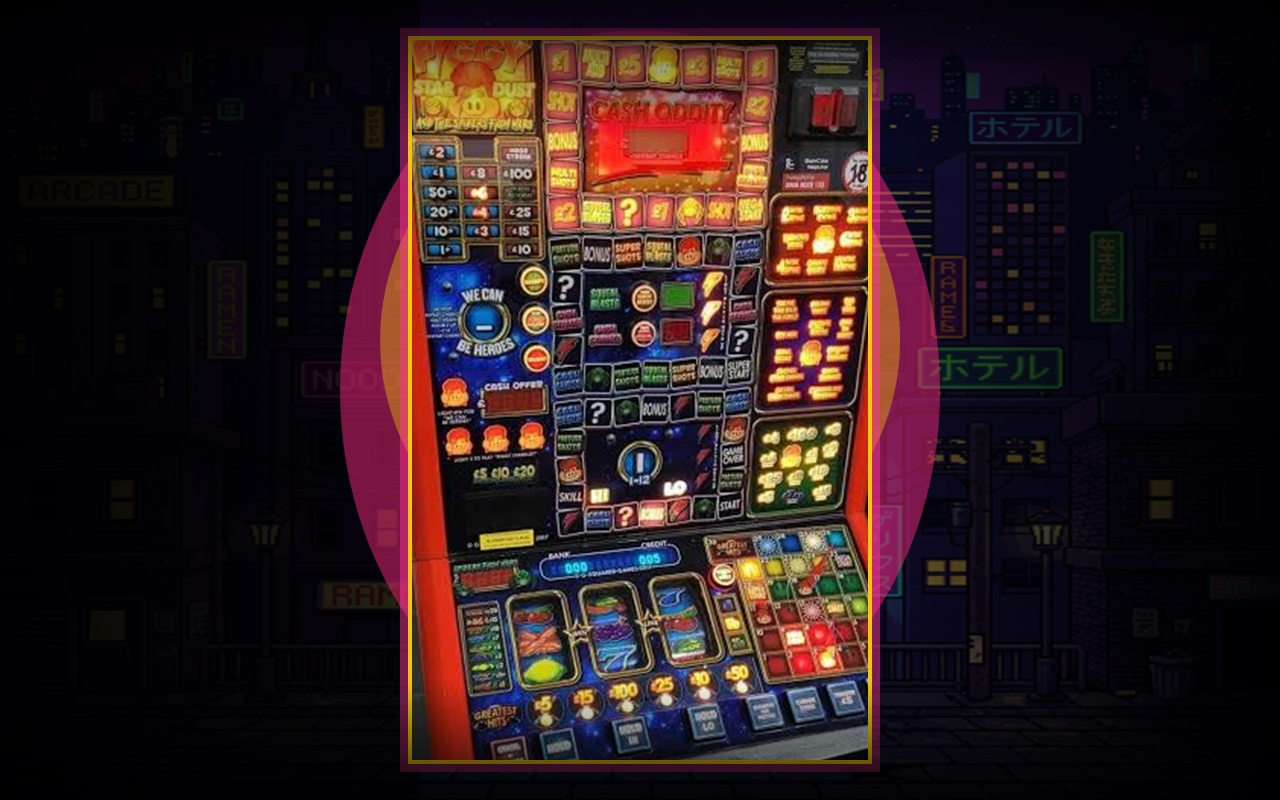
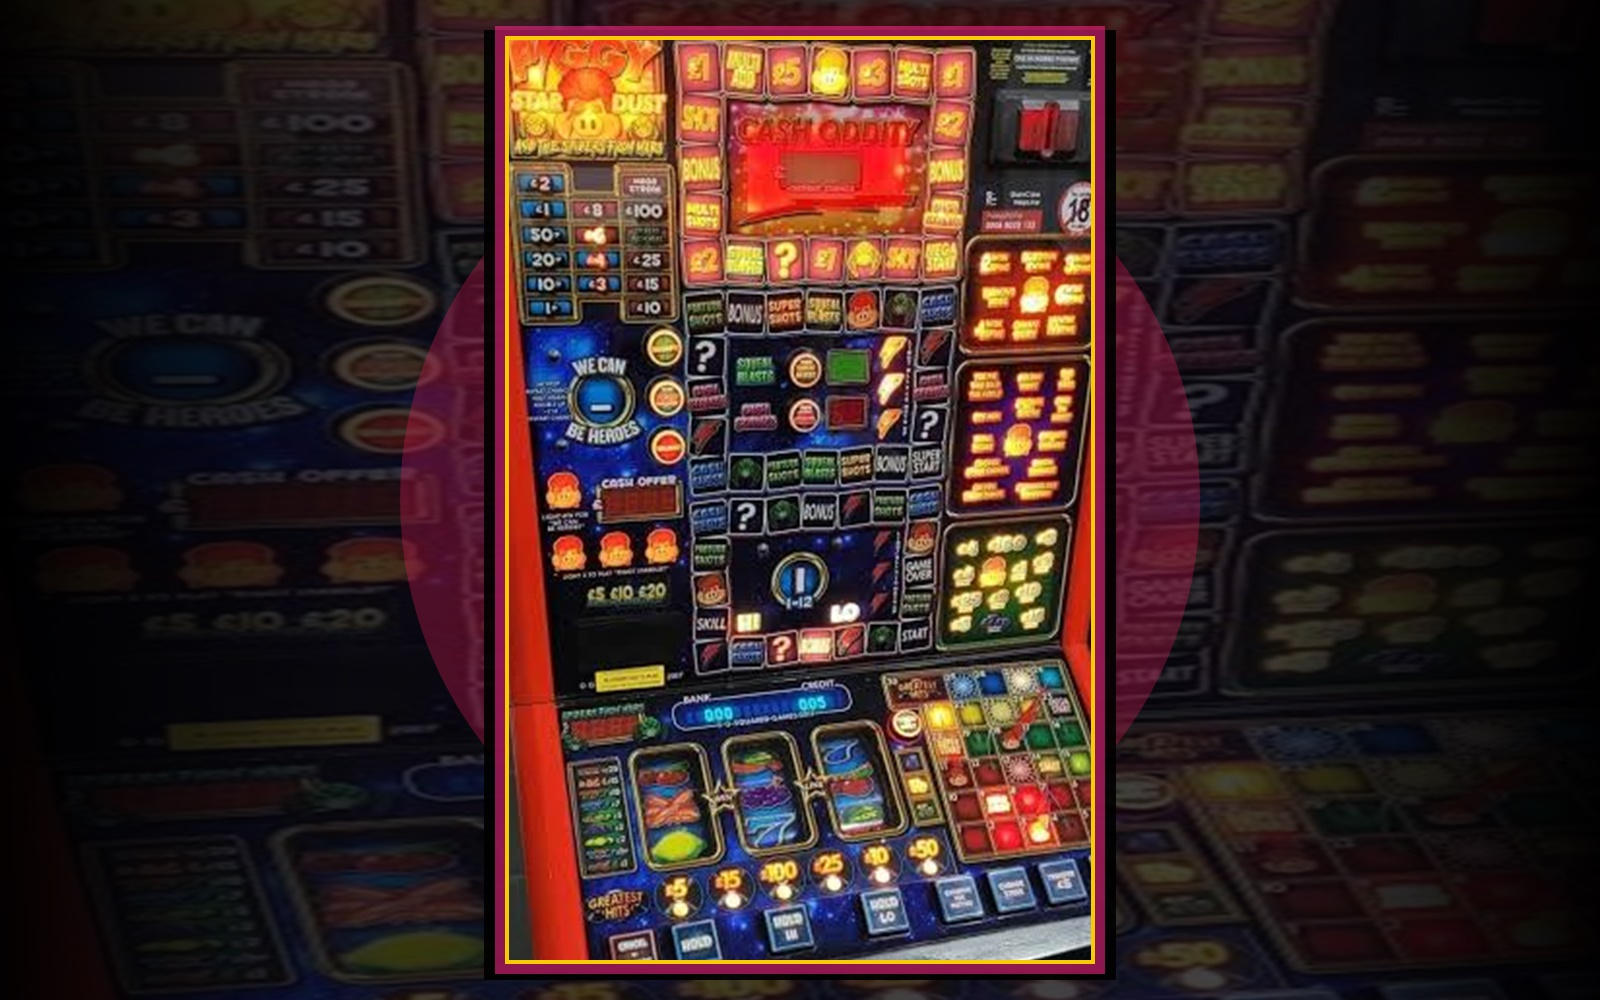
Asset: Deploy Pub Fruity v2 card image with ambient arcade blur and cache-busting URL

diff --git a/src/components/vegas/vegas-rules-db.ts b/src/components/vegas/vegas-rules-db.ts
@@ -513,7 +513,7 @@ export const VEGAS_GAMES_CATALOG: VegasGameTutorial[] = [
     appeal: 'The authentic British pub fruity experience! 3 mechanical stepper reels, single winline, 1-8 number trail with trail held, Hold After Nudge (HAN), and the top glass feature board with Skill Cash Stopper and Reel Roulette.',
     minBet: 0.25,
     maxBet: 2,
-    image: '/vegas/tables/pub-fruity.jpg',
+    image: '/vegas/tables/pub-fruity-v2.jpg?v=20261016_2',
     overview:
       'Unlike Vegas slots where bonuses are passive free spins, a classic UK pub fruit machine (Category C / MPU4) uses the bottom reels as an entry mechanism into the interactive top glass. Features a true compensated ledger engine, stepper recoil bounce, and 3 entry pathways.',
     howToPlay: [
